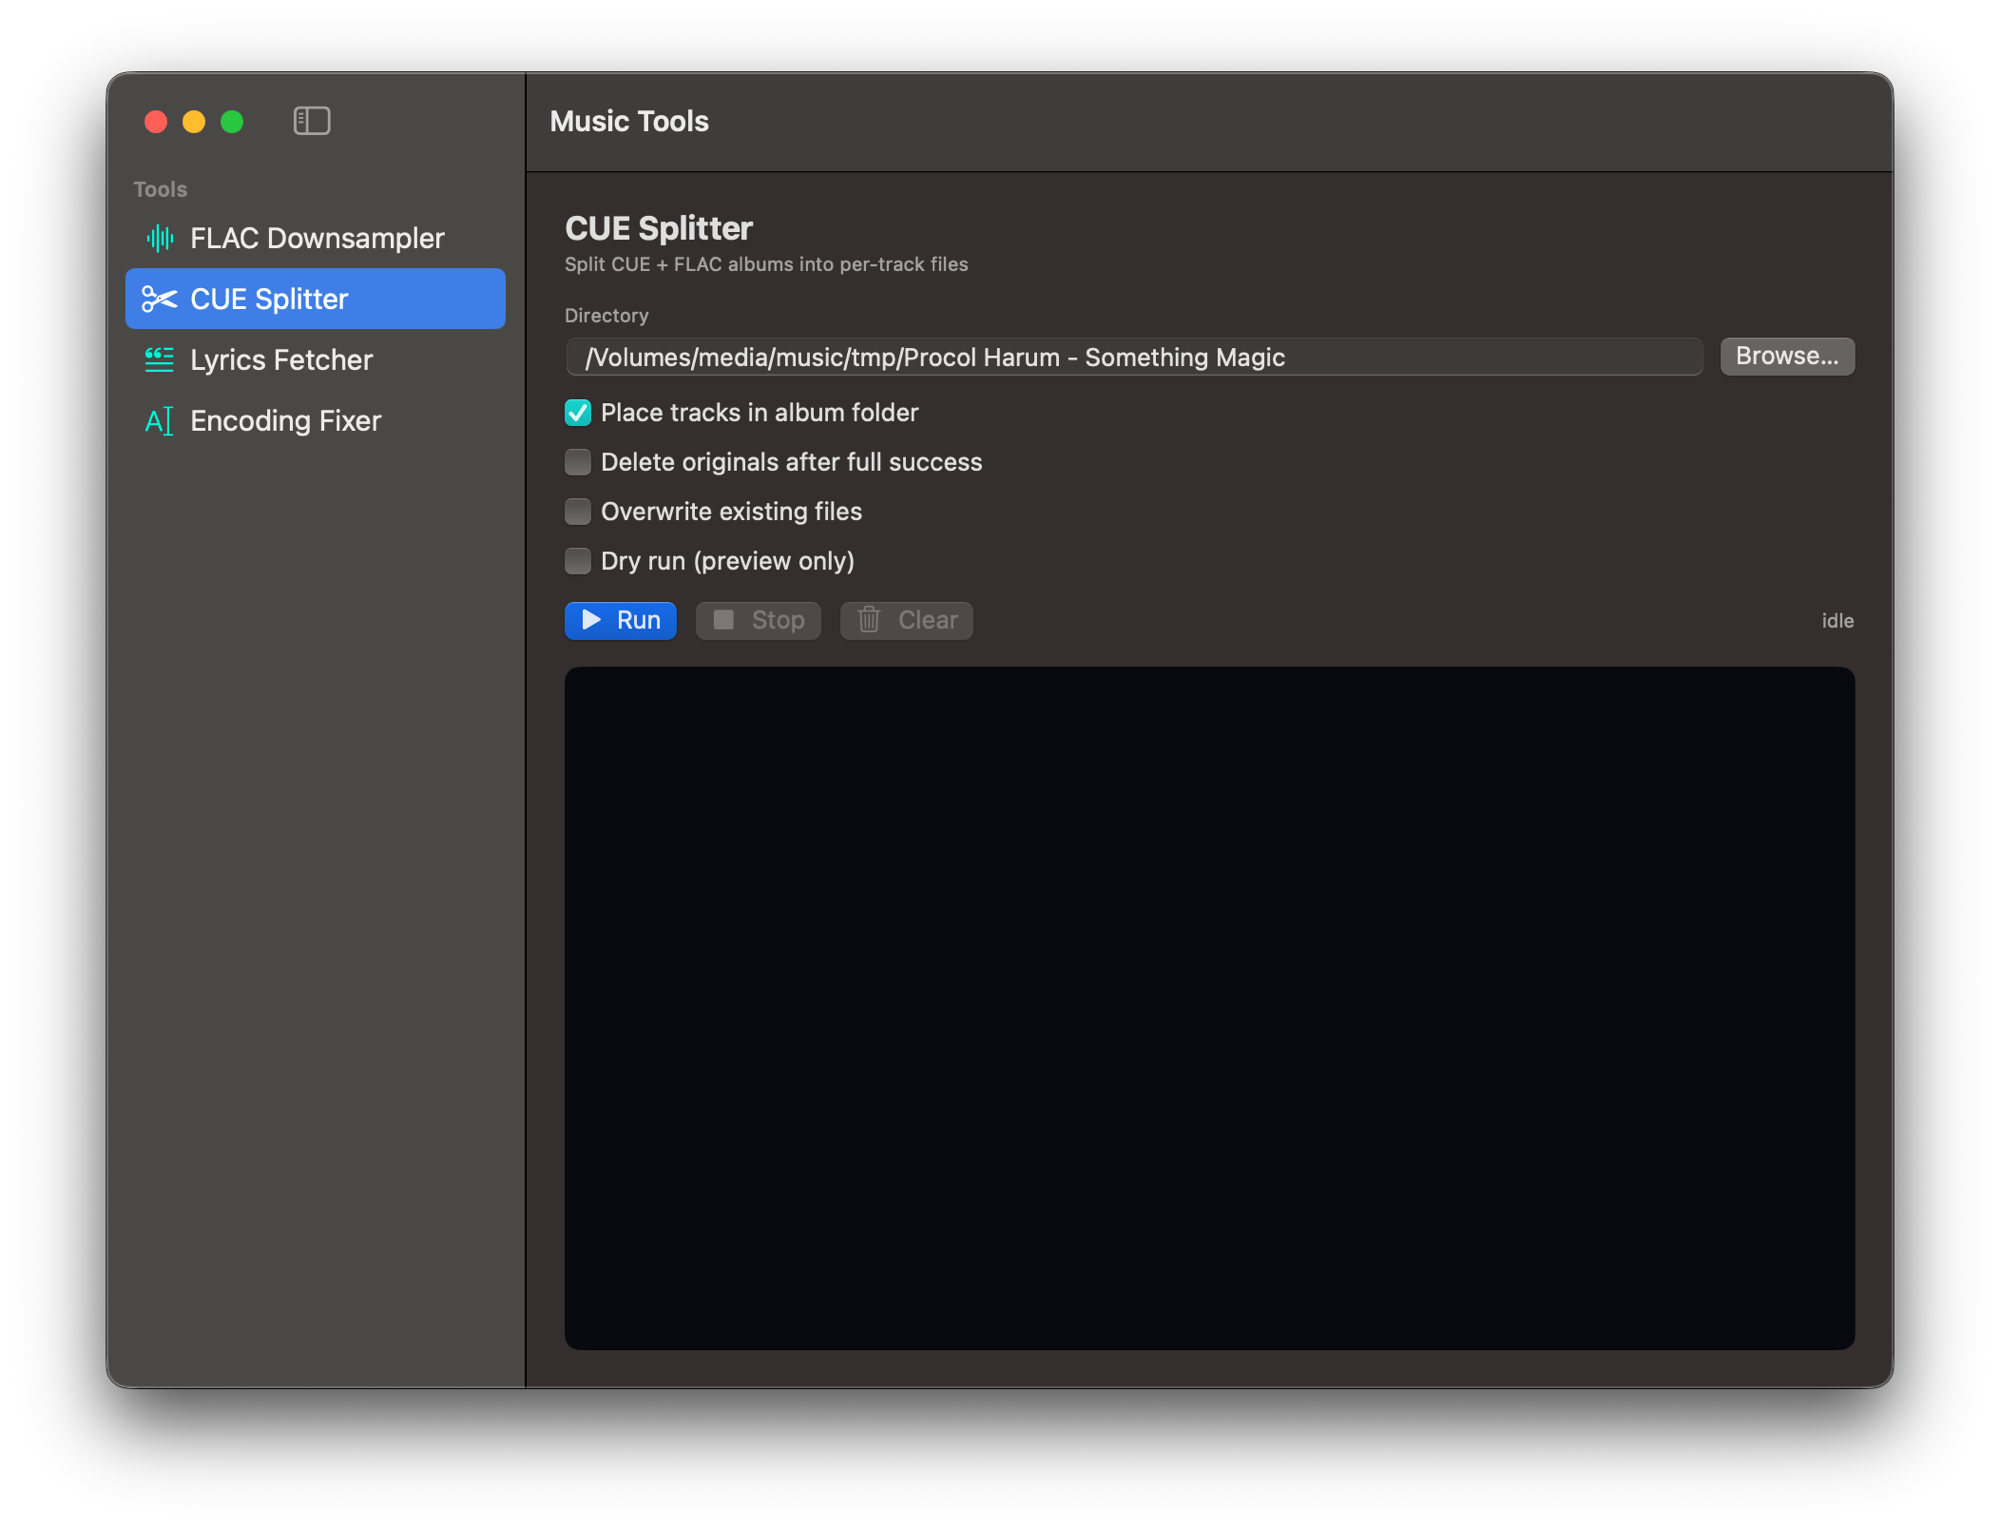
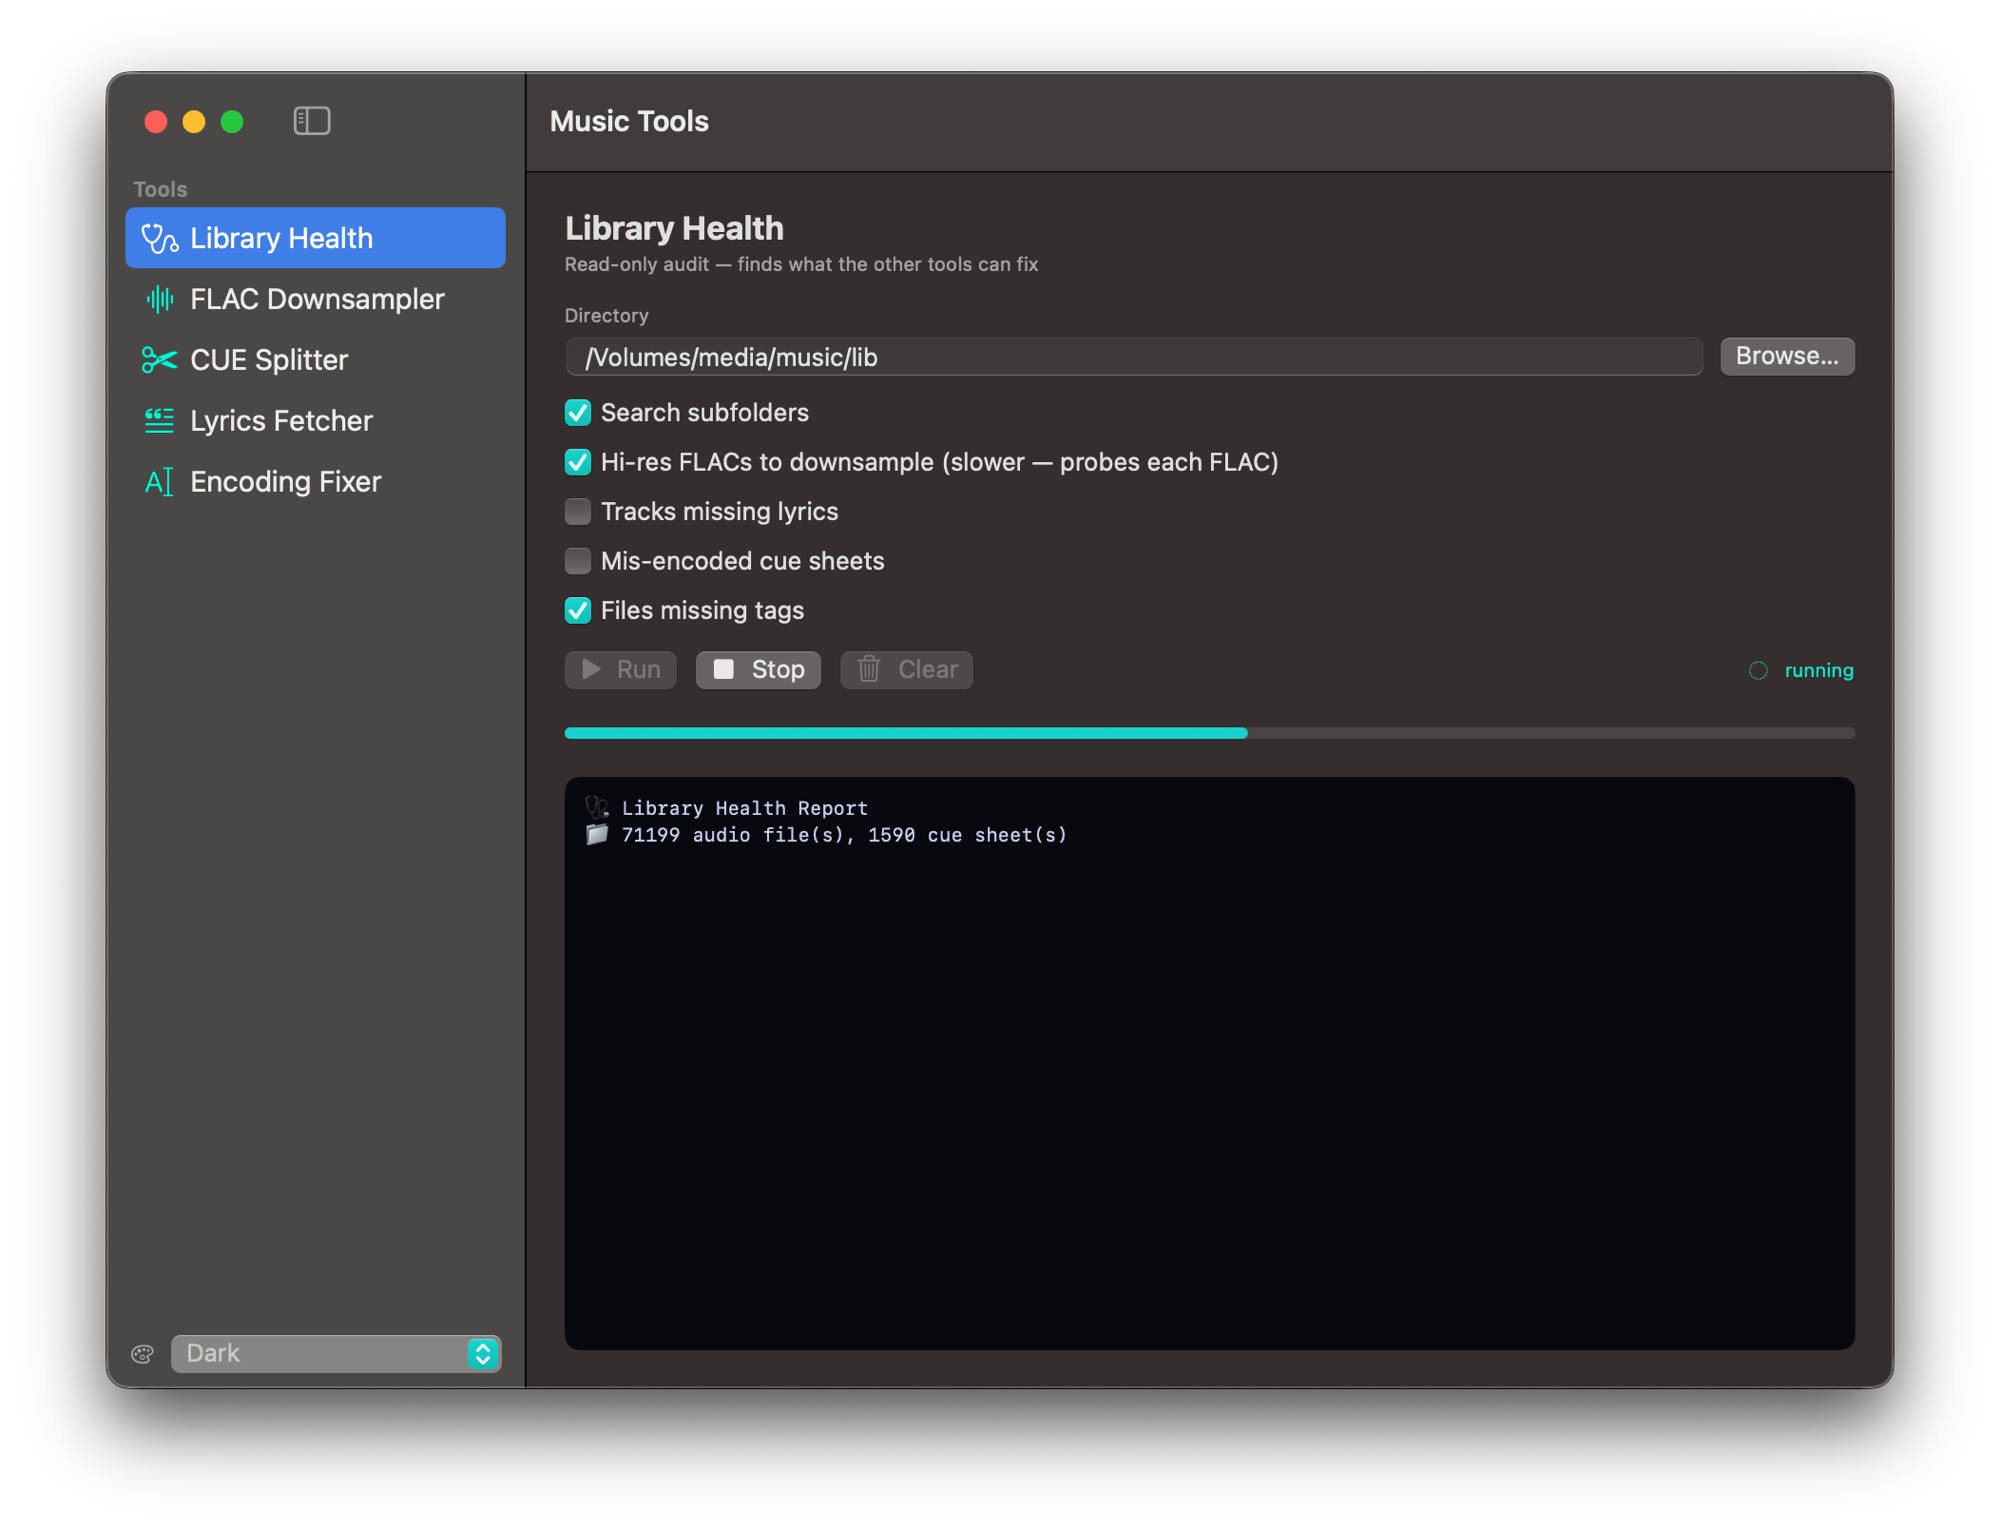
Add Library Health screenshot to README

Changed region(s): [[0.279, 0.2152, 0.93, 0.5533], [0.062, 0.123, 0.527, 0.3381], [0.062, 0.8607, 0.248, 0.9222]]

diff --git a/README.md b/README.md
@@ -17,6 +17,8 @@ controls → a live console.
 | **Lyrics Fetcher** | Fetch and save synced/unsynced lyrics as `.lrc` sidecars |
 | **Encoding Fixer** | Detect and fix mojibake in CUE sheet text (Shift-JIS → UTF-8, etc.) |
 
+![Music Tools screenshot](docs/screenshot.png)
+
 ## Build
 
 ```sh